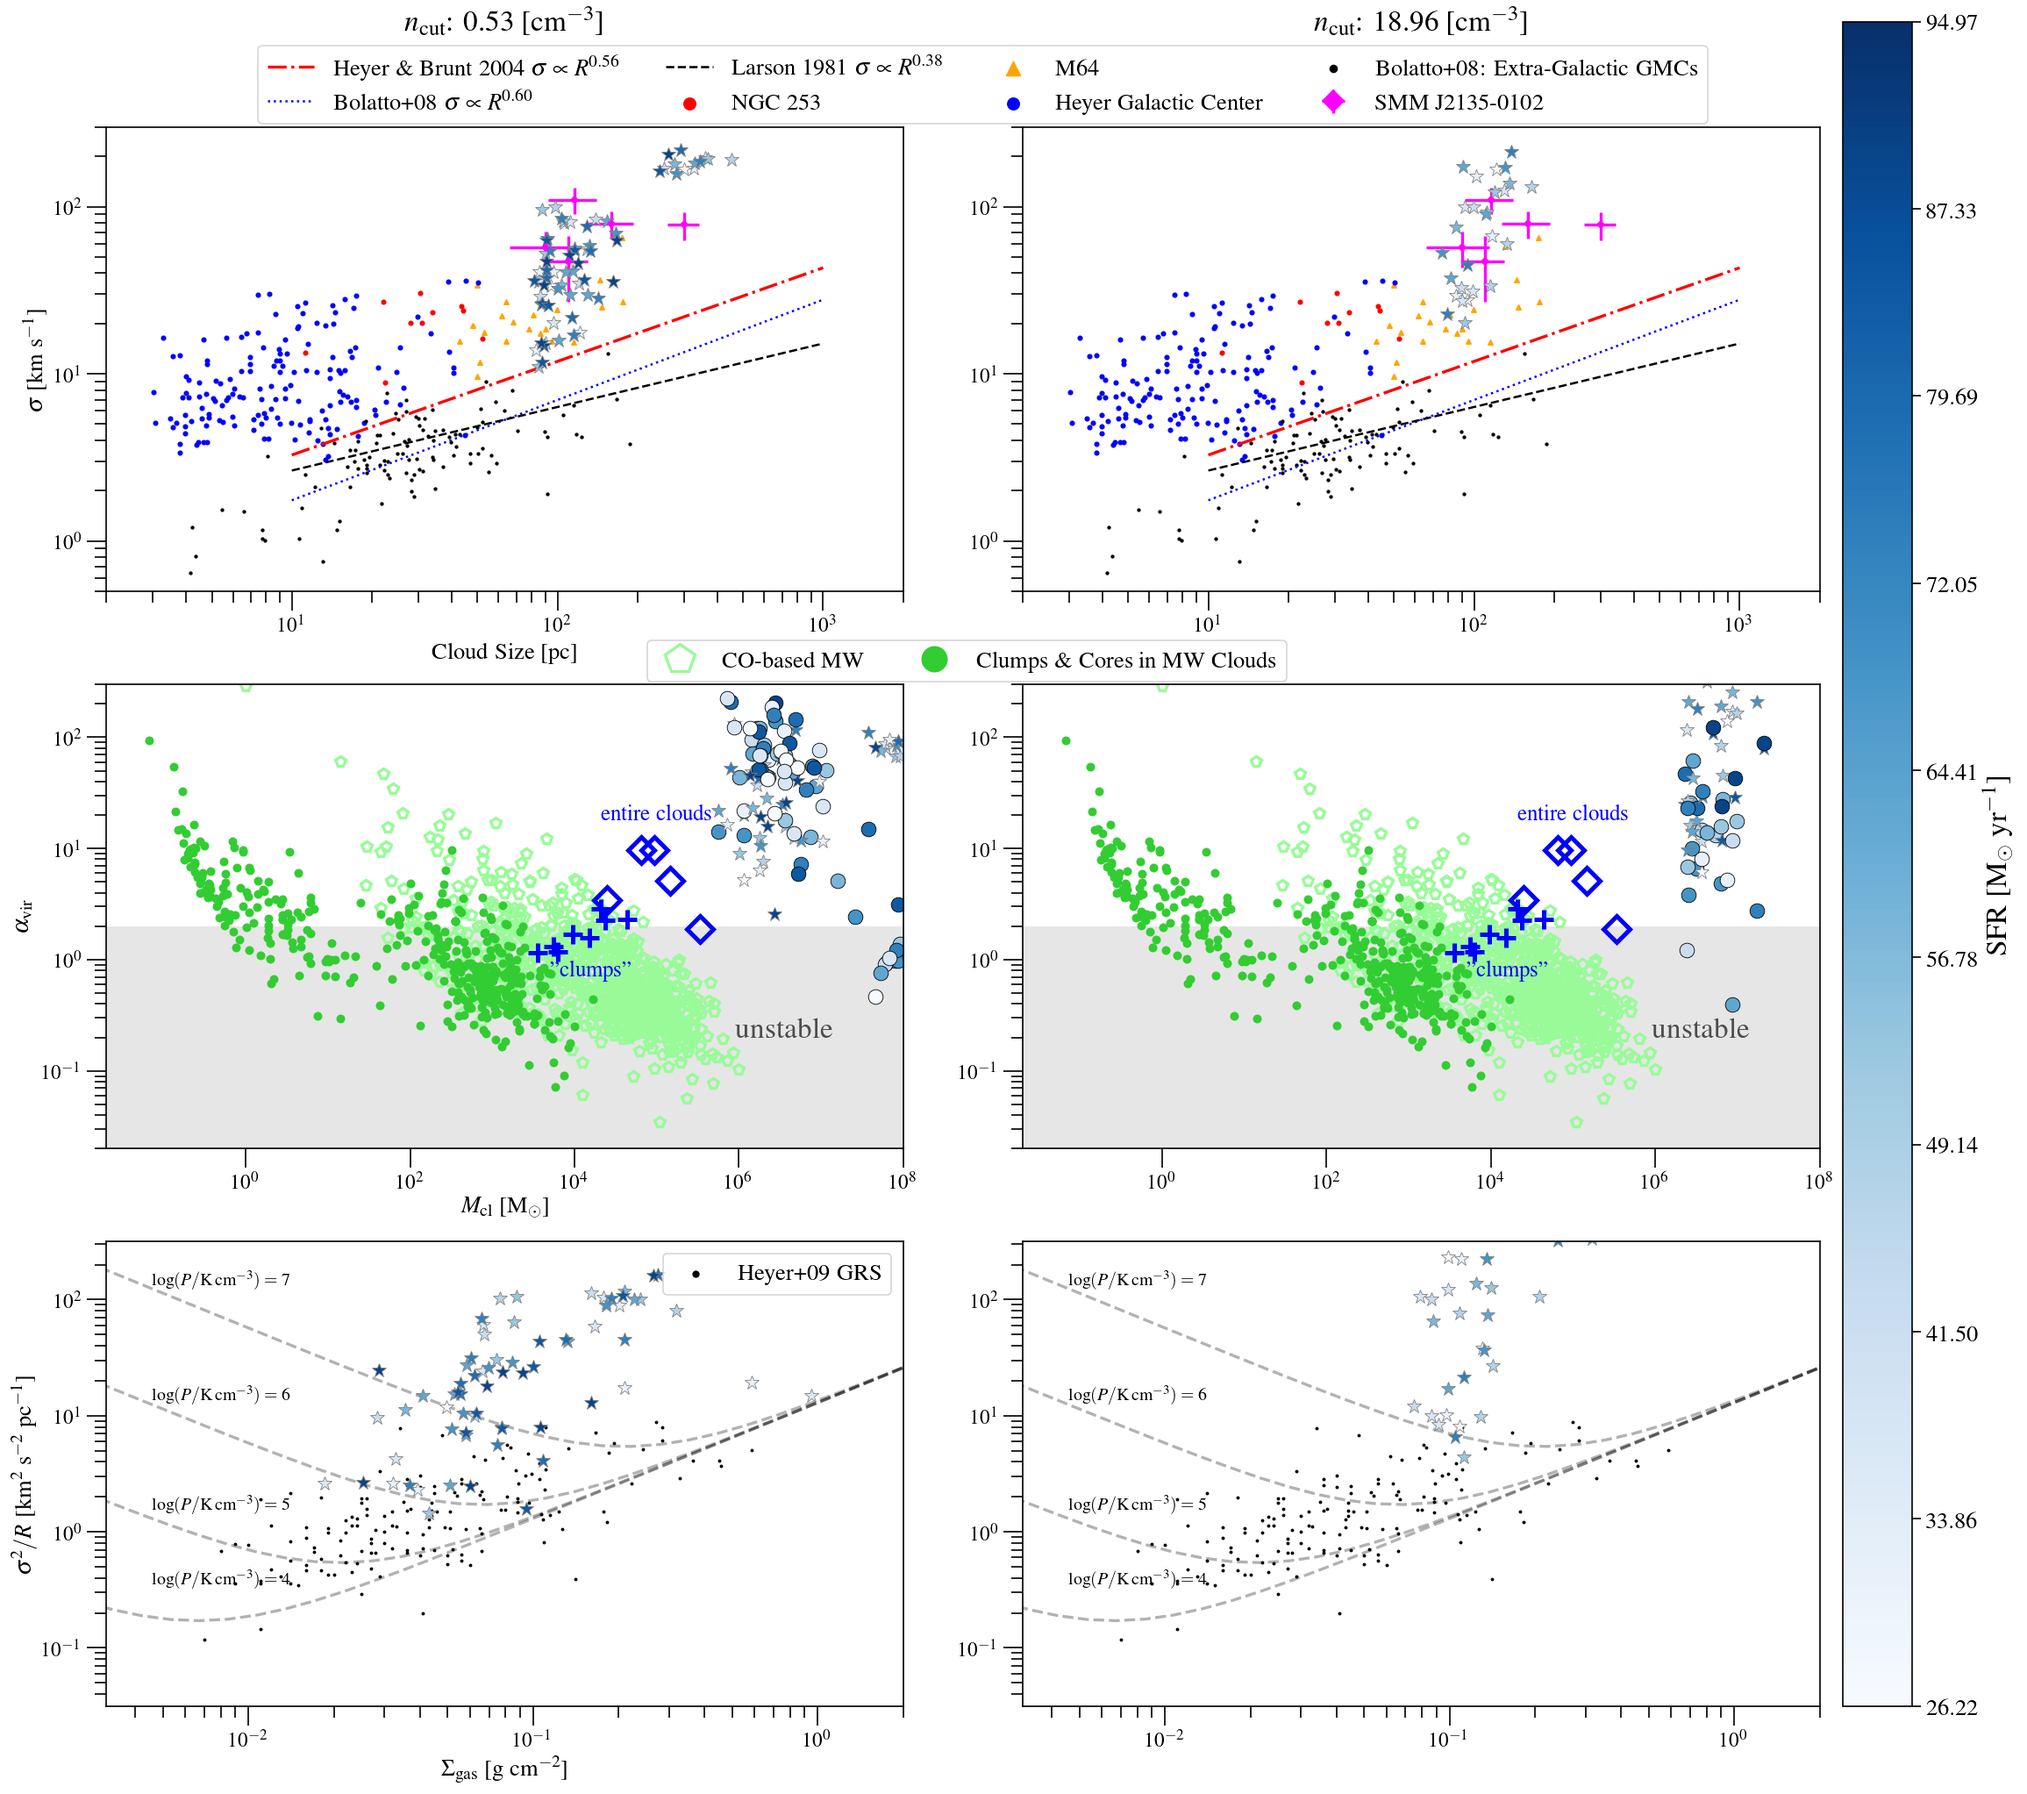
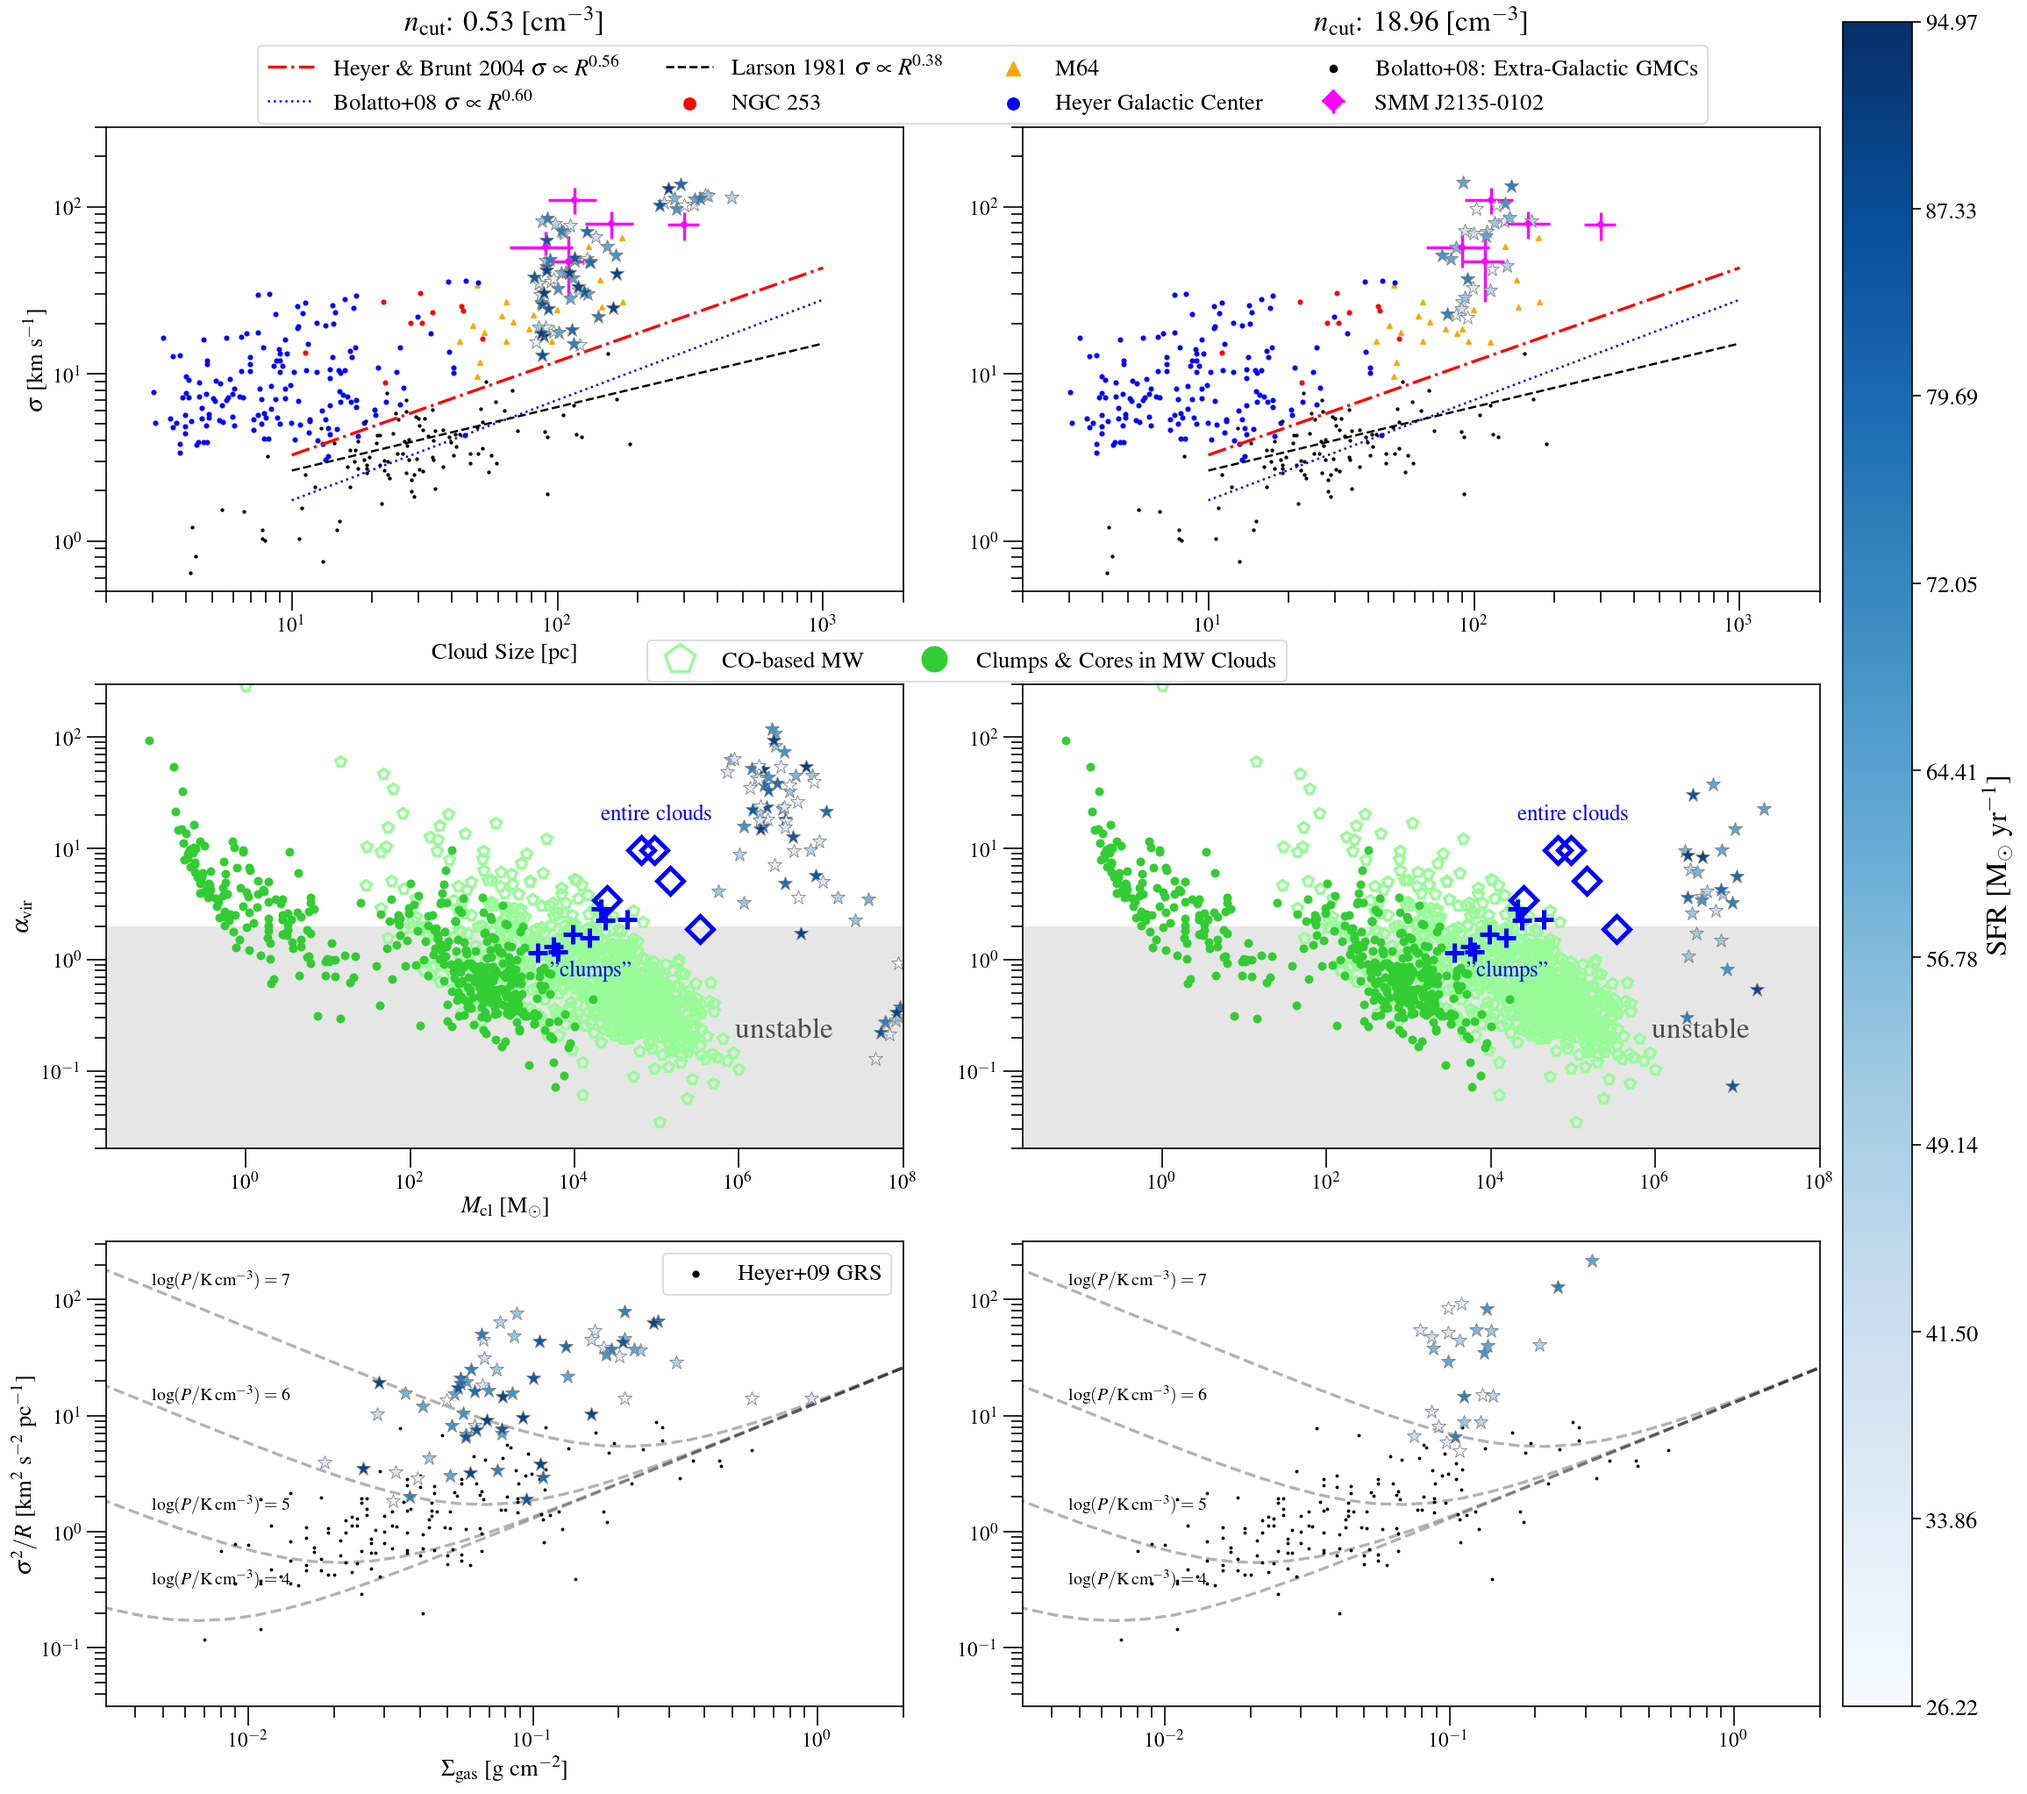
updated mass-weighted quantities

diff --git a/plotSS.py b/plotSS.py
@@ -49,8 +49,6 @@ def plotting_procedure(minss, maxss, pattern):
                to_plot=to_plot, outdir=leafdir_out, sfrlabel=True)
     plot_stuff("size pc", "sigma kms", leglabel="sfr: ",
                to_plot=to_plot, outdir=leafdir_out, sfrlabel=True)
-    plot_stuff("Mach", "Mach pressure", leglabel="sfr: ",
-                to_plot=to_plot, outdir=leafdir_out, sfrlabel=True)
     plot_stuff("Mach", "SFR young", leglabel="sfr: ",
                to_plot=to_plot, outdir=leafdir_out, sfrlabel=True)
     plot_stuff("Mach", "SFR old", leglabel="sfr: ",
@@ -66,7 +64,9 @@ def plotting_procedure(minss, maxss, pattern):
                 to_plot=to_plot, outdir=leafdir_out, sfrlabel=True)
     plot_stuff("cloud mass", "Mach", leglabel="sfr: ",
                 to_plot=to_plot, outdir=leafdir_out, sfrlabel=True)
-    plot_stuff("cloud mass", "Mach pressure", leglabel="sfr: ",
+    plot_stuff("size pc", "weighted density", leglabel="sfr: ",
+               to_plot=to_plot, outdir=leafdir_out,  sfrlabel=True)
+    plot_stuff('sigma kms NT', 'sigma kms bulk', leglabel="sfr: ",
                to_plot=to_plot, outdir=leafdir_out, sfrlabel=True)
 
     plot_stuff_3dim("tff Myr", "size pc", "cloud mass", leglabel="sfr: ",
@@ -75,9 +75,7 @@ def plotting_procedure(minss, maxss, pattern):
                to_plot=to_plot, outdir=leafdir_out, sfrlabel=True)
     plot_stuff('alpha vir', 'sigmaSq over size', leglabel="sfr: ",
                to_plot=to_plot, outdir=leafdir_out, sfrlabel=True)
-    plot_stuff_3dim("Mach" ,"Mach pressure", "cloud mass",
-                    leglabel="sfr: ", to_plot=to_plot,
-                    outdir=leafdir_out, sfrlabel=True)
+
 
     # from plot_modules.plot_cloud_prop import get_masses_all_clouds, massFuncUnbinnedCDF, massFuncPDF, massFuncDifferential, CMF
     # allmass = get_masses_all_clouds(ss)
@@ -216,8 +214,8 @@ if __name__ == '__main__':
     from plot_modules.plot_cloud_prop import setup_plot
     cm = setup_plot()
 
-    # for paper
-    plot_dis_allSS()
+    # # for paper
+    # plot_dis_allSS()
 
     # # of MCs w/ mass > 1e8 Msun (for paper)
     # _, _to, _ = load_pickleTOplot(16, 28, fname="0.32_10_fields.p")

diff --git a/io_modules/leaf_pickle.py b/io_modules/leaf_pickle.py
@@ -43,6 +43,7 @@ def load_in_pickled_leaf_singleSS(directory, snapshot_num, pattern="*_10*.p"):
             Cloud_dict[kkk] = Cloud(get_dx(snapshot_num), leaf_fields[kkk],
                                     int(kkk))
             print Cloud_dict[kkk]
+            # import pdb; pdb.set_trace()      # pause after printing prop of each MC
         ss[ncut_str] = Cloud_dict
 
     return ss
